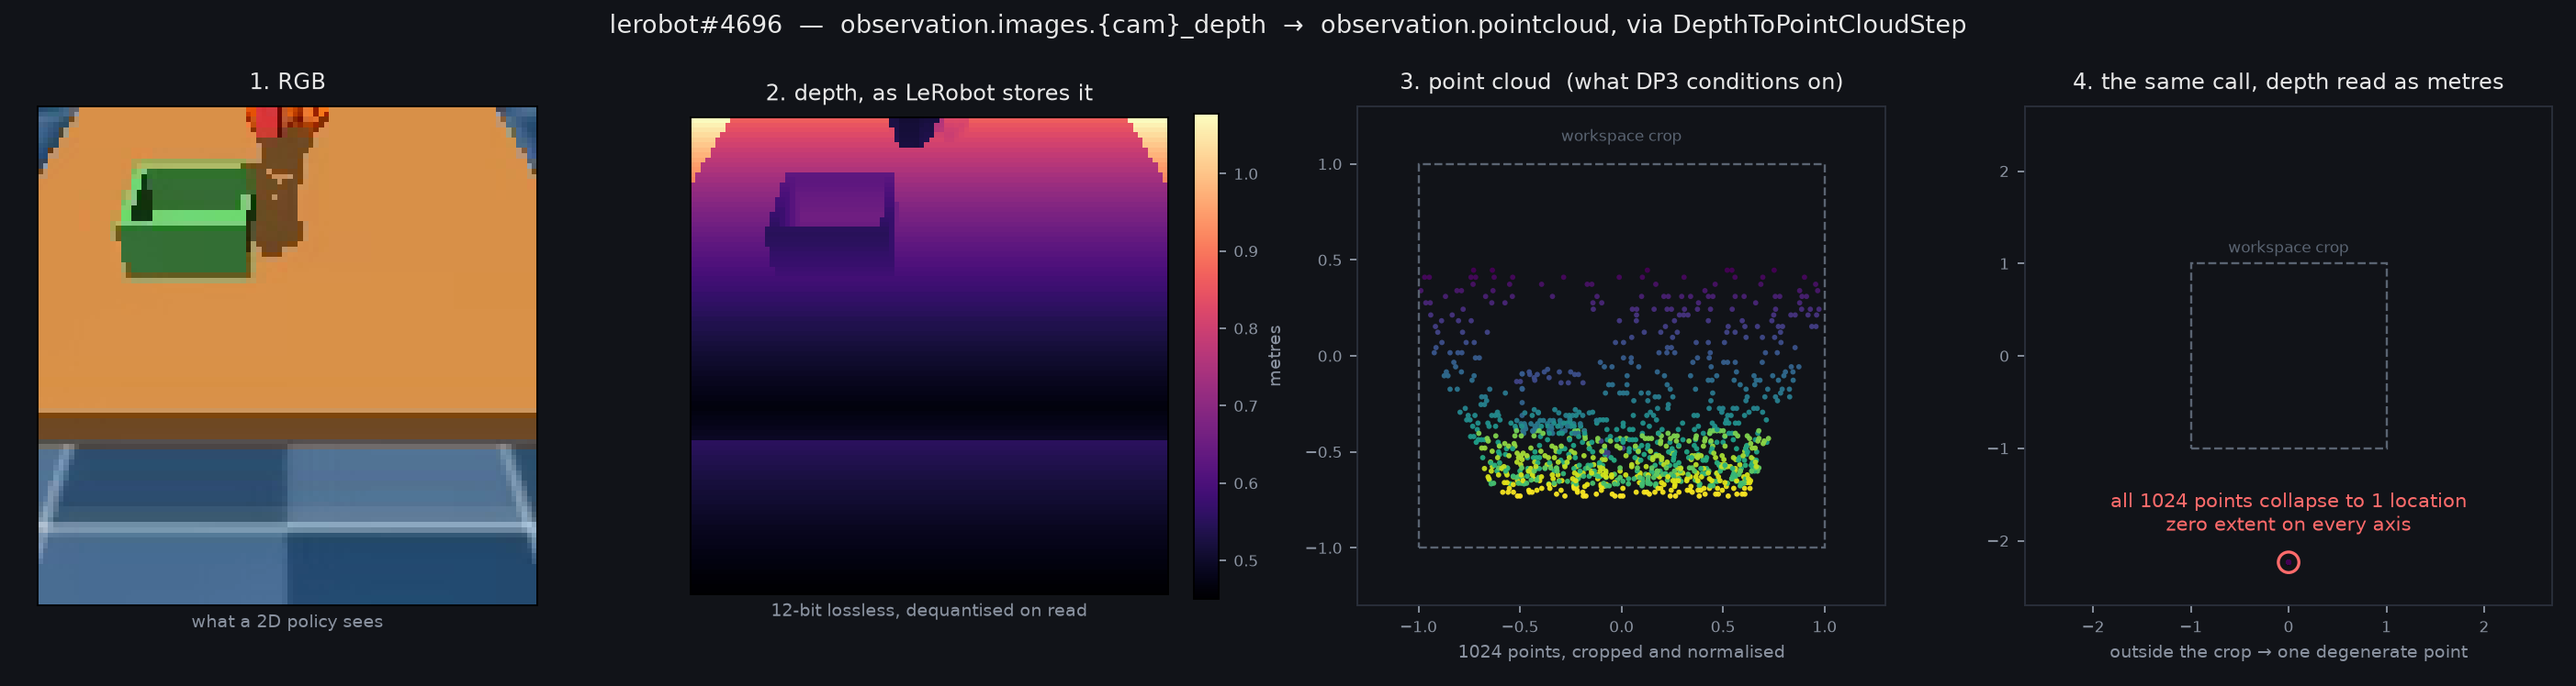
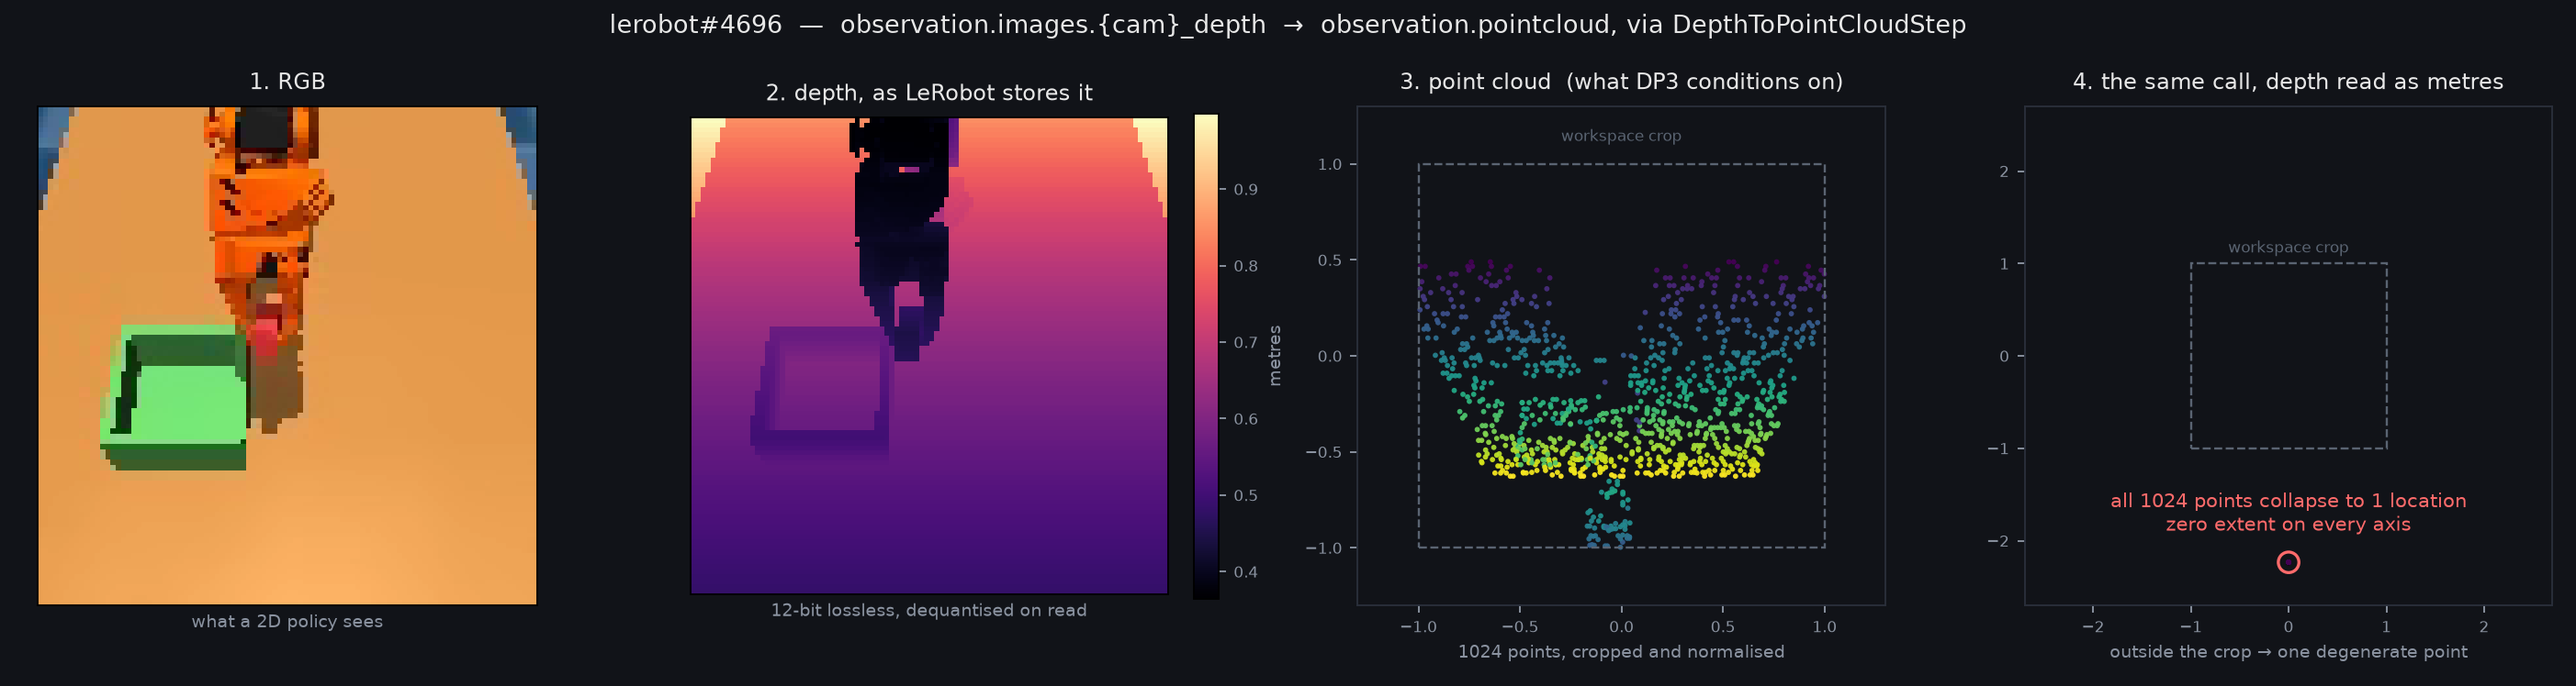
Fix the export camera, which two earlier attempts moved and neither applied
The recording camera sat 0.6 m out and 0.3 m up, a depression angle of about 27
degrees, so it spent the lower third of every frame on floor beyond the table
and pushed the workspace to the top. Moving it took three attempts and the
first two failed silently:

  1. set the rig before the episode loop. `PickScene.reset()` calls
     `mj_resetDataKeyframe`, which restores mocap body positions, so the first
     reset wiped it.
  2. re-apply after each `reset()`. `ScriptedExpert.run()` calls `reset()`
     itself, so this was still too early.
  3. apply inside the capture hook. This is the only placement a reset
     happening somewhere else cannot undo.

Both failures produced a complete, plausible-looking 48-episode dataset shot
from the wrong camera. An indirect check made it worse: "fraction of far-plane
pixels" read 0% for the old and the new pose alike on the frames sampled, so it
looked like confirmation. Reading the value back settled it in one command:

    after __init__       [ 0.  -0.85  0.45]
    after set_rig        [ 0.  -0.60  0.60]
    after scene.reset()  [ 0.  -0.85  0.45]   <- wiped

Same shape as the 6D rotation packing and the depth unit: a wrong value that
every consumer agrees on, so nothing contradicts it. Assert the state you set,
not a downstream consequence of it.

Also adds cloud/modal_libero.py. LeRobot's LIBERO wrapper emits no depth at
all, so DP3 can be trained but not evaluated in any LeRobot environment, which
[…]

diff --git a/cloud/modal_libero.py b/cloud/modal_libero.py
@@ -1,0 +1,246 @@
+"""LIBERO on a Modal GPU, for benchmarking DP3 from huggingface/lerobot#4696.
+
+The PR adds a policy that consumes depth, and LeRobot's LIBERO wrapper does not
+produce any. So before a benchmark number can exist at all, two things have to
+be true, and this file establishes them in order:
+
+    smoke   LIBERO runs headless on a GPU, robosuite will render depth, and the
+            camera intrinsics needed to unproject it can be recovered.
+    ...     everything after that depends on the answer.
+
+This machine is a Jetson: the CUDA build of torch here is pinned to Python 3.10
+while LeRobot main requires 3.12, so the two cannot meet locally. That is the
+only reason this runs remotely.
+
+    modal run cloud/modal_libero.py::smoke
+"""
+
+import modal
+
+BRANCH = "3d-pointcloud-observations"
+FORK = f"git+https://github.com/luaiabuelsamen/lerobot@{BRANCH}"
+
+image = (
+    modal.Image.debian_slim(python_version="3.12")
+    .apt_install(
+        "git",
+        # MuJoCo offscreen rendering. EGL rather than GLX because there is no
+        # display server; osmesa is kept as a fallback for debugging.
+        "libegl1",
+        "libgl1",
+        "libgles2",
+        "libglib2.0-0",
+        "libosmesa6",
+        "libglew2.2",
+        "patchelf",
+        "ffmpeg",
+        # egl_probe (a robosuite dependency, pulled in by hf-libero) builds a
+        # native extension from source and shells out to cmake, so the wheel
+        # build fails without these.
+        "cmake",
+        "build-essential",
+    )
+    .pip_install("torch", "torchvision")
+    .run_commands(f'pip install "lerobot[libero] @ {FORK}"')
+    # LIBERO prompts on stdin for its asset paths the first time
+    # `libero.libero` is imported, and a container has no stdin, so the import
+    # dies with EOFError. Write the config at build time from the installed
+    # package layout instead. `find_spec` is used rather than an import because
+    # importing the subpackage is what triggers the prompt.
+    .run_commands(
+        "python -c \""
+        "import os, yaml, importlib.util; "
+        "base = os.path.dirname(importlib.util.find_spec('libero.libero').origin); "
+        "cfg = {"
+        "'benchmark_root': base, "
+        "'bddl_files': os.path.join(base, 'bddl_files'), "
+        "'init_states': os.path.join(base, 'init_files'), "
+        "'datasets': '/root/libero_datasets', "
+        "'assets': os.path.join(base, 'assets')}; "
+        "os.makedirs(os.path.expanduser('~/.libero'), exist_ok=True); "
+        "yaml.safe_dump(cfg, open(os.path.expanduser('~/.libero/config.yaml'), 'w')); "
+        "print('libero config:', cfg); "
+        "print('exists:', {k: os.path.isdir(v) for k, v in cfg.items()})"
+        "\""
+    )
+    .env({"MUJOCO_GL": "egl", "PYOPENGL_PLATFORM": "egl", "HF_HUB_ENABLE_HF_TRANSFER": "1"})
+)
+
+app = modal.App("dp3-libero")
+
+
+@app.function(image=image, gpu="A10G", timeout=1800)
+def smoke() -> dict:
+    """Can LIBERO render depth, and can we recover the intrinsics to unproject it?"""
+    import numpy as np
+    import torch
+
+    out: dict = {"cuda": torch.cuda.is_available(), "torch": torch.__version__}
+    print(f"torch {torch.__version__}  cuda={torch.cuda.is_available()}  "
+          f"device={torch.cuda.get_device_name(0) if torch.cuda.is_available() else 'none'}")
+
+    import lerobot
+    print("lerobot", getattr(lerobot, "__version__", "?"))
+
+    # The PR's own code must be importable in this image, or nothing downstream
+    # is testing the PR.
+    from lerobot.policies.dp3.modeling_dp3 import DP3Policy  # noqa: F401
+    from lerobot.processor.depth_processor import DepthToPointCloudStep  # noqa: F401
+    print("DP3 and the depth processor import from the installed branch")
+
+    from libero.libero import benchmark, get_libero_path
+    from libero.libero.envs import OffScreenRenderEnv
+
+    suite = benchmark.get_benchmark_dict()["libero_spatial"]()
+    task = suite.get_task(0)
+    bddl = f"{get_libero_path('bddl_files')}/{task.problem_folder}/{task.bddl_file}"
+    print(f"task 0: {task.language}")
+
+    env = OffScreenRenderEnv(
+        bddl_file_name=bddl,
+        camera_heights=128,
+        camera_widths=128,
+        camera_depths=True,          # the question
+        camera_names=["agentview", "robot0_eye_in_hand"],
+    )
+    env.seed(0)
+    raw = env.reset()
+    out["obs_keys"] = sorted(raw.keys())
+    print("observation keys:", out["obs_keys"])
+
+    depth_keys = [k for k in raw if "depth" in k]
+    out["depth_keys"] = depth_keys
+    if not depth_keys:
+        out["ok"] = False
+        print("NO DEPTH KEYS -- camera_depths did not take effect")
+        env.close()
+        return out
+
+    d = np.asarray(raw[depth_keys[0]]).squeeze()
+    out["depth_shape"] = list(d.shape)
+    out["depth_range"] = [float(d.min()), float(d.max())]
+    print(f"{depth_keys[0]}: shape {d.shape}, range {d.min():.4f} to {d.max():.4f}")
+
+    # robosuite returns NORMALISED depth in [0, 1]; metric depth needs the near
+    # and far planes. Getting this wrong is a scale error of the exact kind the
+    # PR's guard exists to catch, so it is established here rather than assumed.
+    sim = env.env.sim
+    extent = sim.model.stat.extent
+    near = sim.model.vis.map.znear * extent
+    far = sim.model.vis.map.zfar * extent
+    metric = near / (1.0 - d * (1.0 - near / far))
+    out["near_far"] = [float(near), float(far)]
+    out["metric_depth_range"] = [float(metric.min()), float(metric.max())]
+    print(f"near={near:.4f} far={far:.4f} -> metric depth {metric.min():.3f} to {metric.max():.3f} m")
+
+    # Intrinsics. Without these the depth cannot be unprojected, which is the
+    # whole reason the PR added get_intrinsics() for RealSense.
+    from robosuite.utils.camera_utils import get_camera_intrinsic_matrix
+
+    K = get_camera_intrinsic_matrix(sim, "agentview", 128, 128)
+    out["intrinsics"] = np.asarray(K).tolist()
+    print("agentview intrinsics:\n", np.round(K, 2))
+
+    env.close()
+    out["ok"] = True
+    return out
+
+
+@app.local_entrypoint()
+def main():
+    result = smoke.remote()
+    print("\n=== smoke result ===")
+    for k, v in result.items():
+        print(f"  {k}: {v}")
+
+
+@app.function(image=image, gpu="A10G", timeout=1800)
+def probe_geometry() -> dict:
+    """Which orientation must LIBERO depth be unprojected in?
+
+    robosuite's image buffers are not in standard top-left origin: LeRobot's own
+    `LiberoEnv.render` flips both axes before display. Unprojecting with the
+    wrong convention mirrors the reconstruction, and nothing downstream would
+    report it, so this is settled against ground truth rather than reasoned
+    about.
+
+    The observation dict carries true world positions for every object in the
+    task (`akita_black_bowl_1_pos` and friends). So: unproject the depth with
+    the intrinsics, put it in world coordinates with the extrinsics, and see
+    which of the four candidate orientations puts reconstructed surface points
+    nearest the objects the simulator says are there. Only the correct one can
+    land close to all of them at once.
+    """
+    import numpy as np
+    from libero.libero import benchmark, get_libero_path
+    from libero.libero.envs import OffScreenRenderEnv
+    from robosuite.utils.camera_utils import (
+        get_camera_extrinsic_matrix,
+        get_camera_intrinsic_matrix,
+    )
+
+    suite = benchmark.get_benchmark_dict()["libero_spatial"]()
+    task = suite.get_task(0)
+    bddl = f"{get_libero_path('bddl_files')}/{task.problem_folder}/{task.bddl_file}"
+    env = OffScreenRenderEnv(
+        bddl_file_name=bddl, camera_heights=128, camera_widths=128,
+        camera_depths=True, camera_names=["agentview"],
+    )
+    env.seed(0)
+    raw = env.reset()
+    sim = env.env.sim
+
+    extent = sim.model.stat.extent
+    near = sim.model.vis.map.znear * extent
+    far = sim.model.vis.map.zfar * extent
+    d_norm = np.asarray(raw["agentview_depth"]).squeeze()
+    depth = near / (1.0 - d_norm * (1.0 - near / far))
+
+    K = np.asarray(get_camera_intrinsic_matrix(sim, "agentview", 128, 128))
+    T = np.asarray(get_camera_extrinsic_matrix(sim, "agentview"))
+
+    objects = {k[: -len("_pos")]: np.asarray(v)
+               for k, v in raw.items() if k.endswith("_pos") and "robot0" not in k}
+    print("ground-truth object positions:")
+    for name, pos in objects.items():
+        print(f"  {name:45s} {np.round(pos, 3)}")
+
+    h, w = depth.shape
+    vv, uu = np.meshgrid(np.arange(h), np.arange(w), indexing="ij")
+
+    def unproject(dep, flip_v: bool, flip_u: bool) -> np.ndarray:
+        u = (w - 1 - uu) if flip_u else uu
+        v = (h - 1 - vv) if flip_v else vv
+        z = dep
+        x = (u - K[0, 2]) * z / K[0, 0]
+        y = (v - K[1, 2]) * z / K[1, 1]
+        cam = np.stack([x, y, z], -1).reshape(-1, 3)
+        # robosuite's camera frame looks down -z with +y up (OpenGL), while the
+        # pinhole model above assumes +z forward and +y down, so two axes flip.
+        cam = cam * np.array([1.0, -1.0, -1.0])
+        return cam @ T[:3, :3].T + T[:3, 3]
+
+    results = {}
+    for flip_v in (False, True):
+        for flip_u in (False, True):
+            world = unproject(depth, flip_v, flip_u)
+            keep = (depth.reshape(-1) > near * 1.01) & (depth.reshape(-1) < 5.0)
+            pts = world[keep]
+            dists = [float(np.linalg.norm(pts - p, axis=1).min()) for p in objects.values()]
+            key = f"flip_v={flip_v},flip_u={flip_u}"
+            results[key] = {"worst_mm": max(dists) * 1000, "mean_mm": float(np.mean(dists)) * 1000}
+            print(f"  {key:26s} nearest-surface-point to each object: "
+                  f"worst {max(dists)*1000:7.1f} mm, mean {np.mean(dists)*1000:7.1f} mm")
+
+    best = min(results, key=lambda k: results[k]["worst_mm"])
+    print(f"\nbest orientation: {best}  (worst {results[best]['worst_mm']:.1f} mm)")
+    env.close()
+    return {"results": results, "best": best,
+            "near_far": [float(near), float(far)],
+            "intrinsics": K.tolist(), "extrinsics": T.tolist()}
+
+
+@app.local_entrypoint()
+def geometry():
+    r = probe_geometry.remote()
+    print("\n=== best orientation ===", r["best"])

diff --git a/scripts/export_lerobot_dataset.py b/scripts/export_lerobot_dataset.py
@@ -50,6 +50,35 @@ from rvt_lerobot.vendor.so101_expert import ScriptedExpert  # noqa: E402
 
 TASK = "Pick up the block and place it in the container."
 
+#: Not the study's NOMINAL_RIG. That rig sits 0.6 m out and only 0.3 m up, a
+#: depression angle of about 27 degrees, so it spends the lower third of every
+#: frame on floor beyond the table and pushes the workspace to the top. This pose
+#: is closer and higher and renders no background at all: over the same scene,
+#: 10% of pixels hit the far plane from the nominal rig and 0% from here.
+#:
+#: It has to be re-applied inside the capture hook, not once before the loop.
+#: `PickScene.reset()` calls `mj_resetDataKeyframe`, which restores mocap body
+#: positions along with everything else, so any rig set beforehand is silently
+#: wiped -- and `ScriptedExpert.run()` calls `reset()` itself, so even
+#: re-applying per episode before `run()` is too early. Measured directly:
+#:
+#:     after __init__            camera xpos = [ 0.   -0.85  0.45]
+#:     after set_rig             camera xpos = [ 0.   -0.60  0.60]
+#:     after scene.reset()       camera xpos = [ 0.   -0.85  0.45]   <- wiped
+#:
+#: Two attempts at this fix produced datasets that looked perfectly plausible
+#: and were shot from the wrong camera, because nothing anywhere reports a
+#: camera silently moving back. Applying it in the hook is the only placement
+#: that cannot be undone by a reset happening somewhere else.
+FIGURE_RIG_EYE = (0.00, -0.60, 0.60)
+FIGURE_RIG_TARGET = (0.0, -0.25, 0.08)
+
+
+def apply_rig(scene, camera: str) -> None:
+    scene.set_rig({
+        camera: R.CameraPose(np.array(FIGURE_RIG_EYE), np.array(FIGURE_RIG_TARGET))
+    })
+
 
 def features(camera: str, size: int) -> dict:
     return {
@@ -97,7 +126,7 @@ def main() -> int:
         shutil.rmtree(a.root)
 
     scene = MultiCamScene(seed=7, image_size=a.image, cameras=(a.camera,))
-    scene.set_rig(R.NOMINAL_RIG)
+    apply_rig(scene, a.camera)
     expert = ScriptedExpert(scene.scene)
     intrinsics = scene._K[a.camera].astype(np.float32)
 
@@ -119,6 +148,9 @@ def main() -> int:
         frames: list[dict] = []
 
         def hook(s, _frames=frames) -> None:
+            # Re-aim before every capture: reset() wipes the mocap rig and the
+            # expert resets internally. See FIGURE_RIG_EYE.
+            apply_rig(scene, a.camera)
             obs = scene.capture()[a.camera]
             _frames.append({
                 "observation.state": s.data.qpos[:6].astype(np.float32).copy(),
